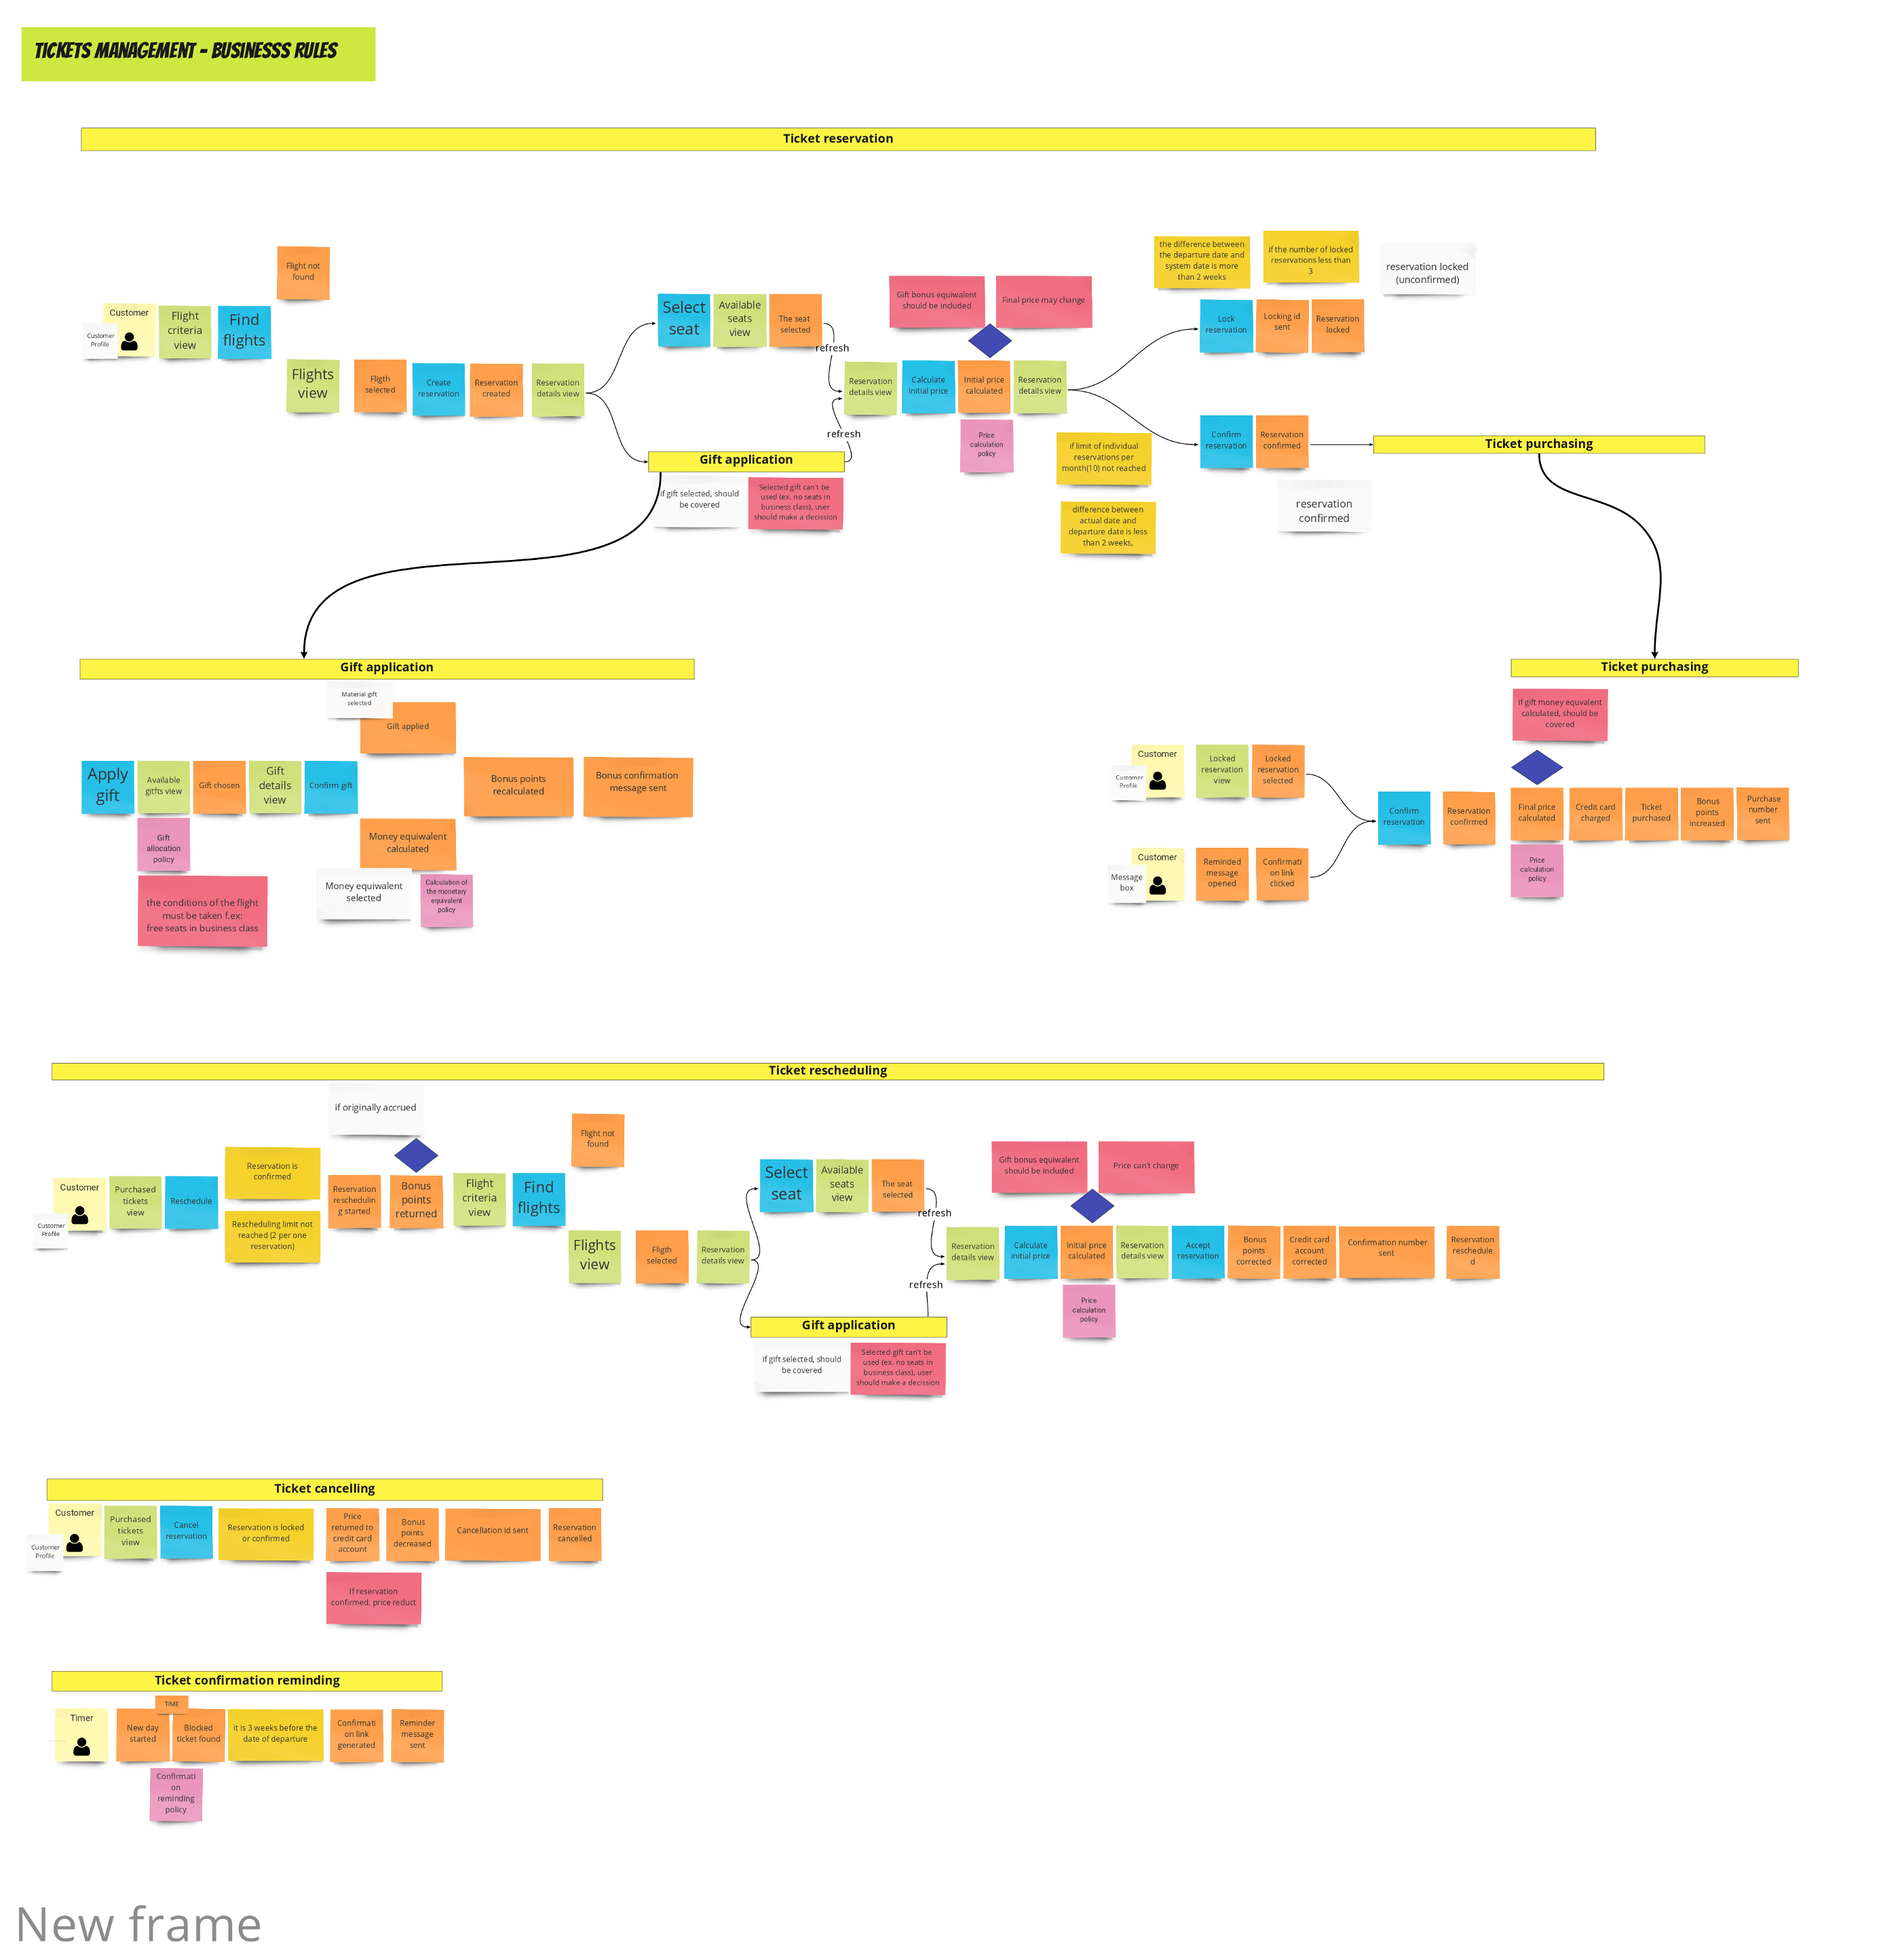
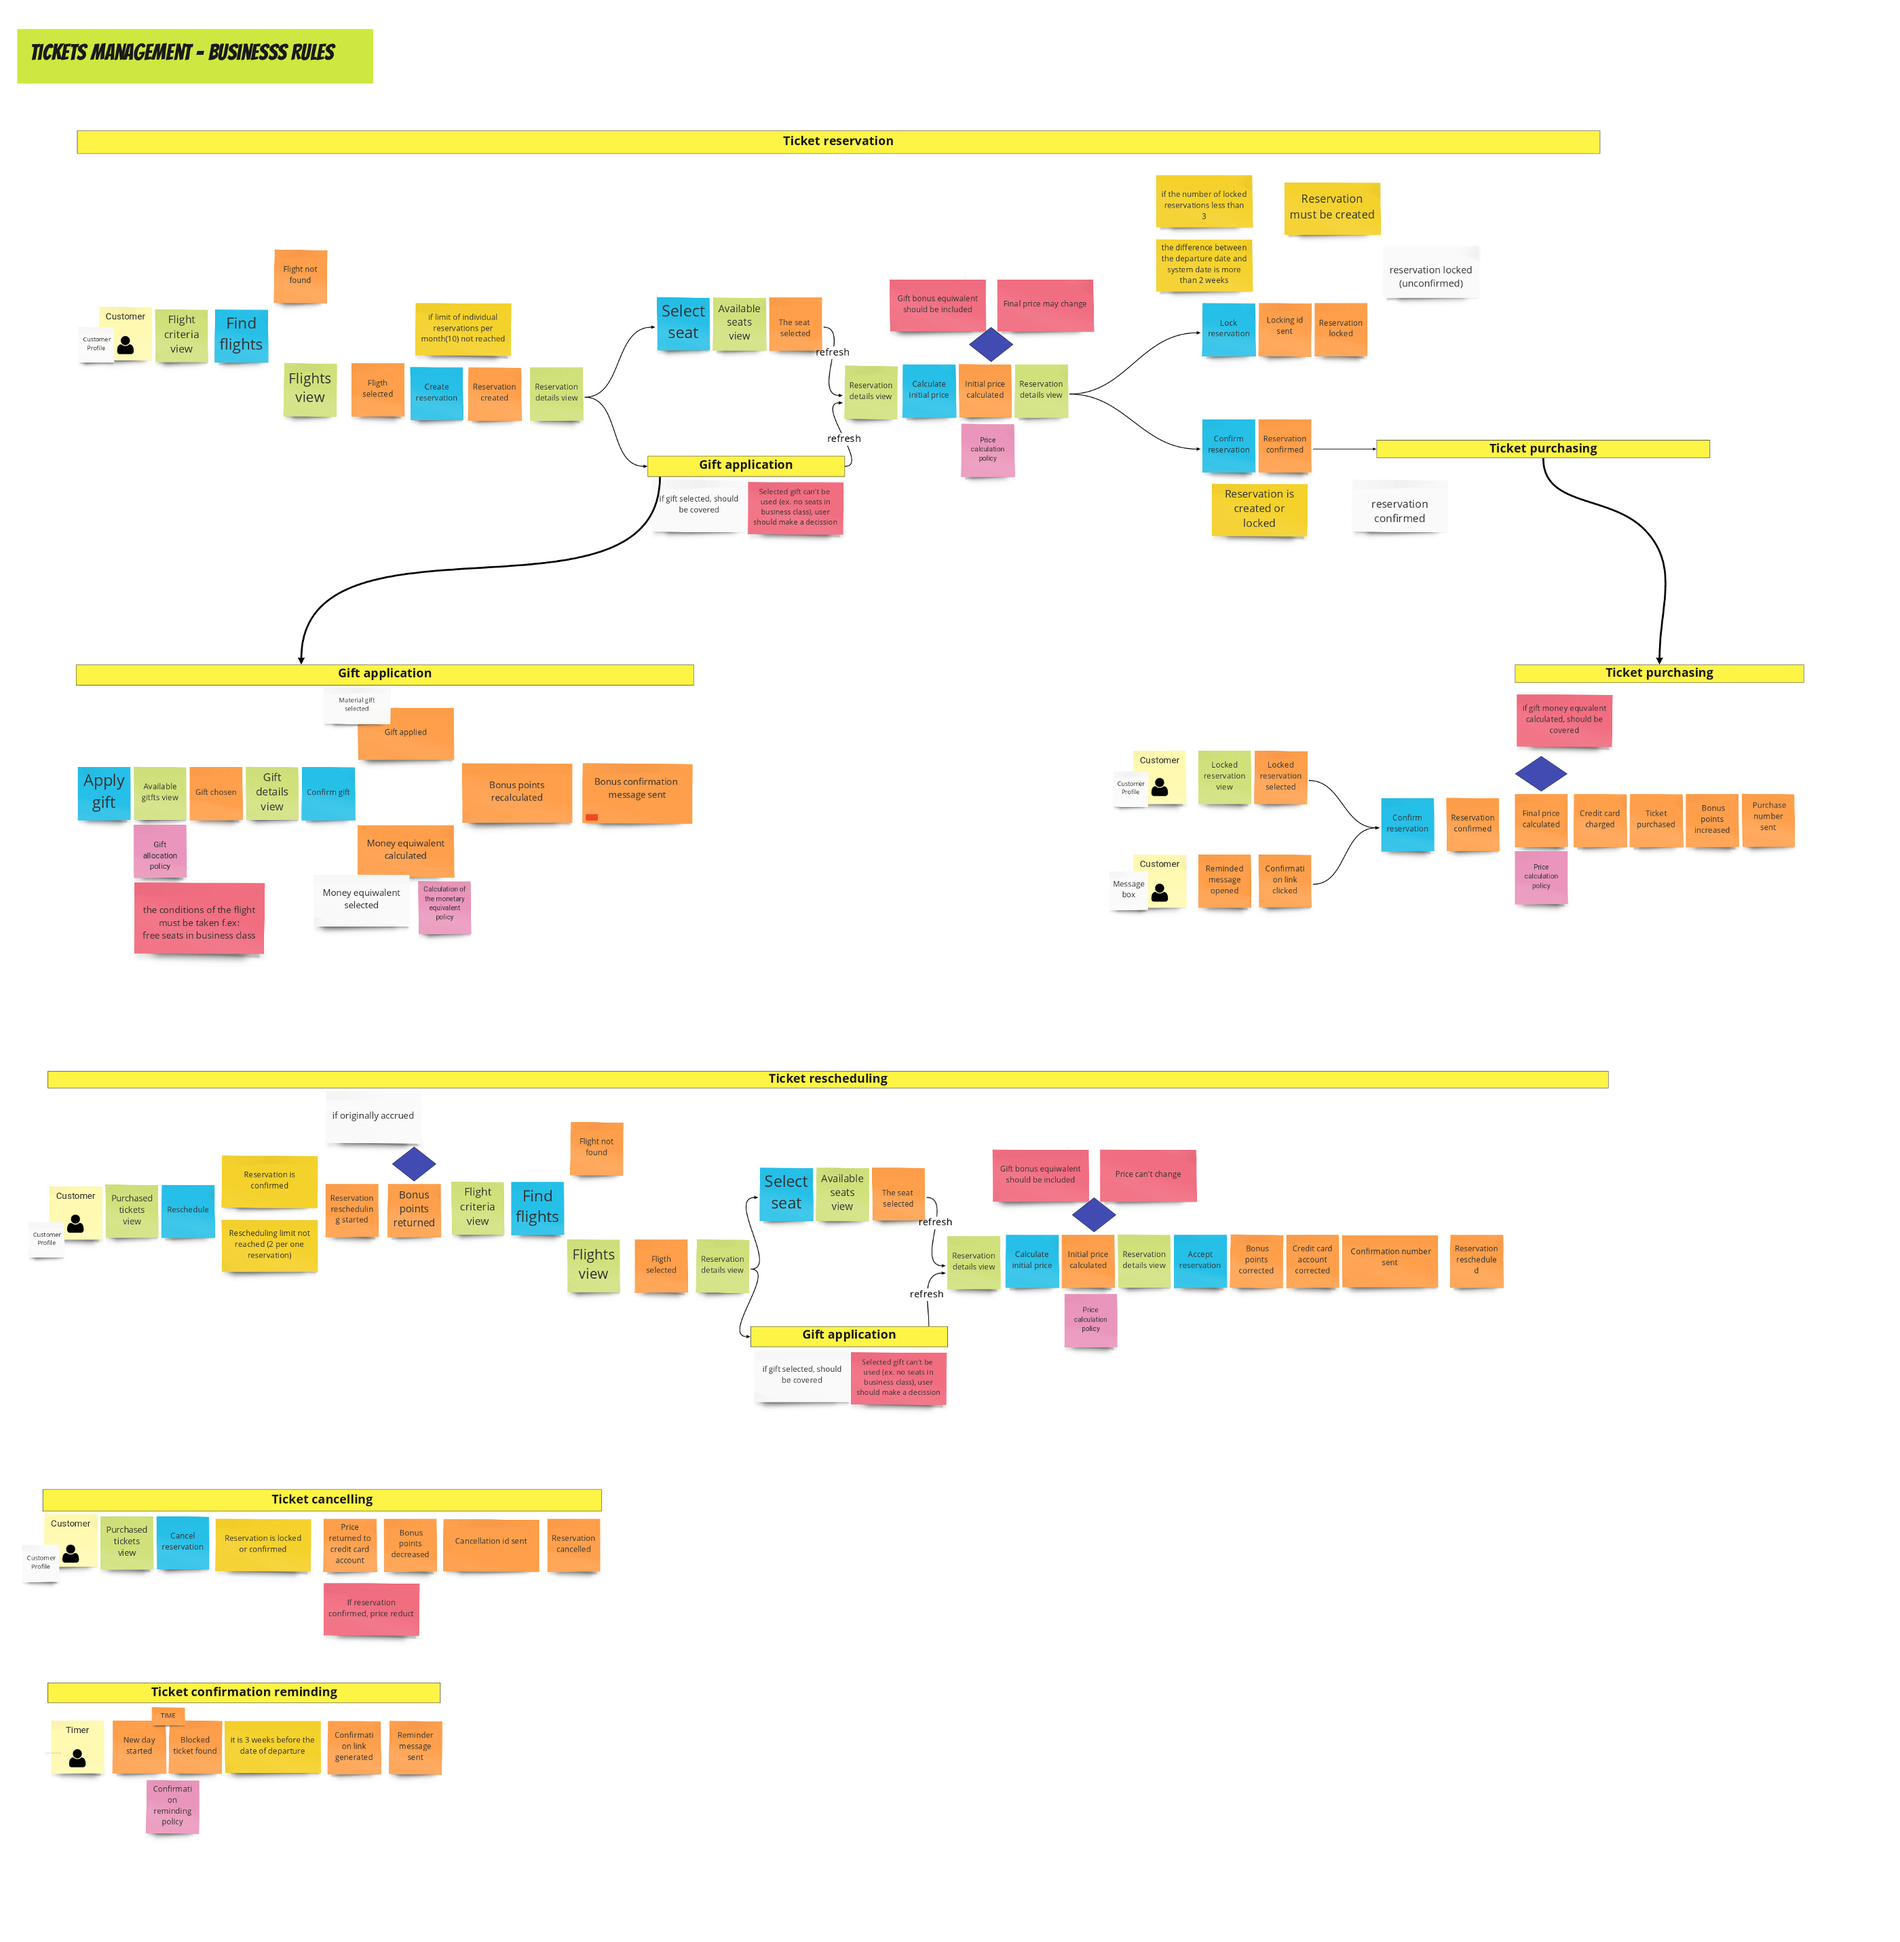
imp

diff --git a/src/main/java/mw/ars/reservations/reservation/model/Reservation.java b/src/main/java/mw/ars/reservations/reservation/model/Reservation.java
@@ -3,21 +3,73 @@ package mw.ars.reservations.reservation.model;
 import mw.ars.commons.model.Result;
 
 public class Reservation {
+  //BLUE CARD
   public Result create() {
+    if(limitReservationPerMonthReached()){
+      return Result.failure();
+    }
     return Result.success();
   }
+
+  //BLUE CARD
   public Result confirm() {
+    if(!(isCreated()||isLocked())){
+      return Result.failure();
+    }
     return Result.success();
   }
+  //BLUE CARD
   public Result lock() {
+    if(!isCreated()||departureDateLessThan()||limitLockedReservationReached()){
+        return Result.failure();
+    }
     return Result.success();
   }
 
+  //BLUE CARD
   public Result reschedule() {
+    if(!isConfirmed()||limitReschedulingReached()){
+      return Result.failure();
+    }
     return Result.success();
   }
 
+  //BLUE CARD
   public Result cancel() {
+    if(!(isLocked()||isConfirmed())){
+      return Result.failure();
+    }
     return Result.success();
+  }
+
+
+
+
+  private boolean isConfirmed() {
+    return false;
+  }
+
+  private boolean limitReschedulingReached() {
+    return false;
+  }
+
+  private boolean isCreated() {
+    return false;
+  }
+
+  private boolean isLocked() {
+    return false;
+  }
+
+  private boolean limitReservationPerMonthReached() {
+    return false;
+  }
+
+  private boolean departureDateLessThan() {
+    return false;
+  }
+
+  private boolean limitLockedReservationReached() {
+    return false;
   }
 }

diff --git a/readme.md b/readme.md
@@ -300,8 +300,58 @@ During the session it turned out that it is necessary to redefine Gifts Bounded 
  |:-----:|
  |***Aggregates are the basic element of transfer of data storage - you request to load or save whole aggregates. Transactions should not cross aggregateboundaries.***|
 
-Extracting aggregates begins by grouping commands, events, and rules describe the same object. We are interested only in behavior, and don't worry
- about the data.
+Extracting aggregates begins by grouping commands, events, and rules for the same object. 
 
   ![](img/air-aggregate-reservation.jpg)
  
+Based on the design, it is possible to prepare an implementation skeleton. Eeach command is represented by a separate method, and each rule by its logic.
+
+```java
+public class Reservation {
+  //BLUE CARD
+  public Result create() {
+    //YELLOW CARD
+    if(limitReservationPerMonthReached()){
+      return Result.failure();
+    }
+    return Result.success();
+  }
+
+  //BLUE CARD
+  public Result confirm() {
+    
+    //YELLOW CARD
+    if(!(isCreated()||isLocked())){
+      return Result.failure();
+    }
+    return Result.success();
+  }
+  //BLUE CARD
+  public Result lock() {
+    //YELLOW CARD
+    if(!isCreated()||departureDateLessThan()||limitLockedReservationReached()){
+        return Result.failure();
+    }
+    return Result.success();
+  }
+  
+  //BLUE CARD
+  public Result reschedule() {
+    //YELLOW CARD
+    if(!isConfirmed()||limitReschedulingReached()){
+      return Result.failure();
+    }
+    return Result.success();
+  }
+
+  //BLUE CARD
+  public Result cancel() {
+    //YELLOW CARD
+    if(!(isLocked()||isConfirmed())){
+      return Result.failure();
+    }
+    return Result.success();
+  }
+//private methods
+}
+``` 
